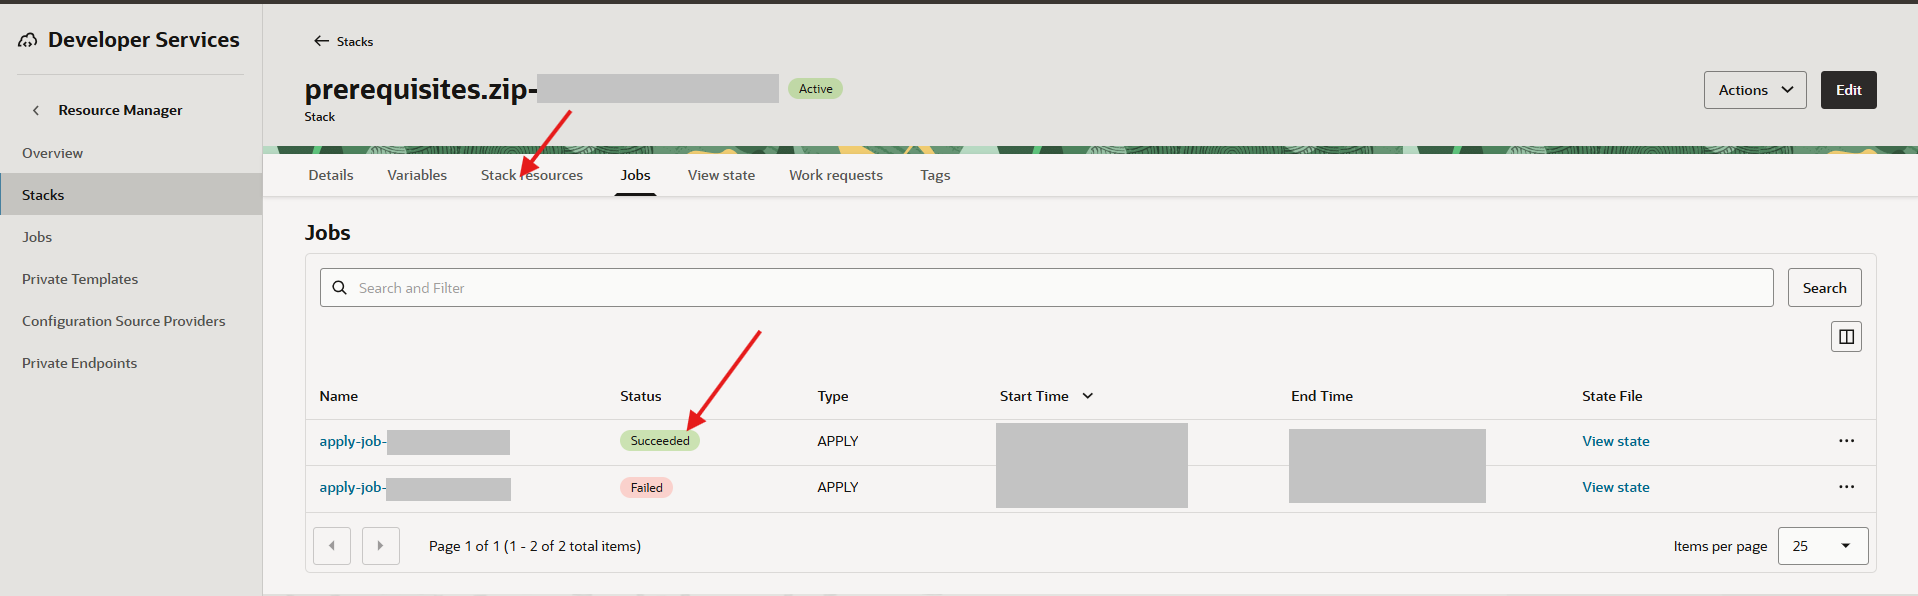
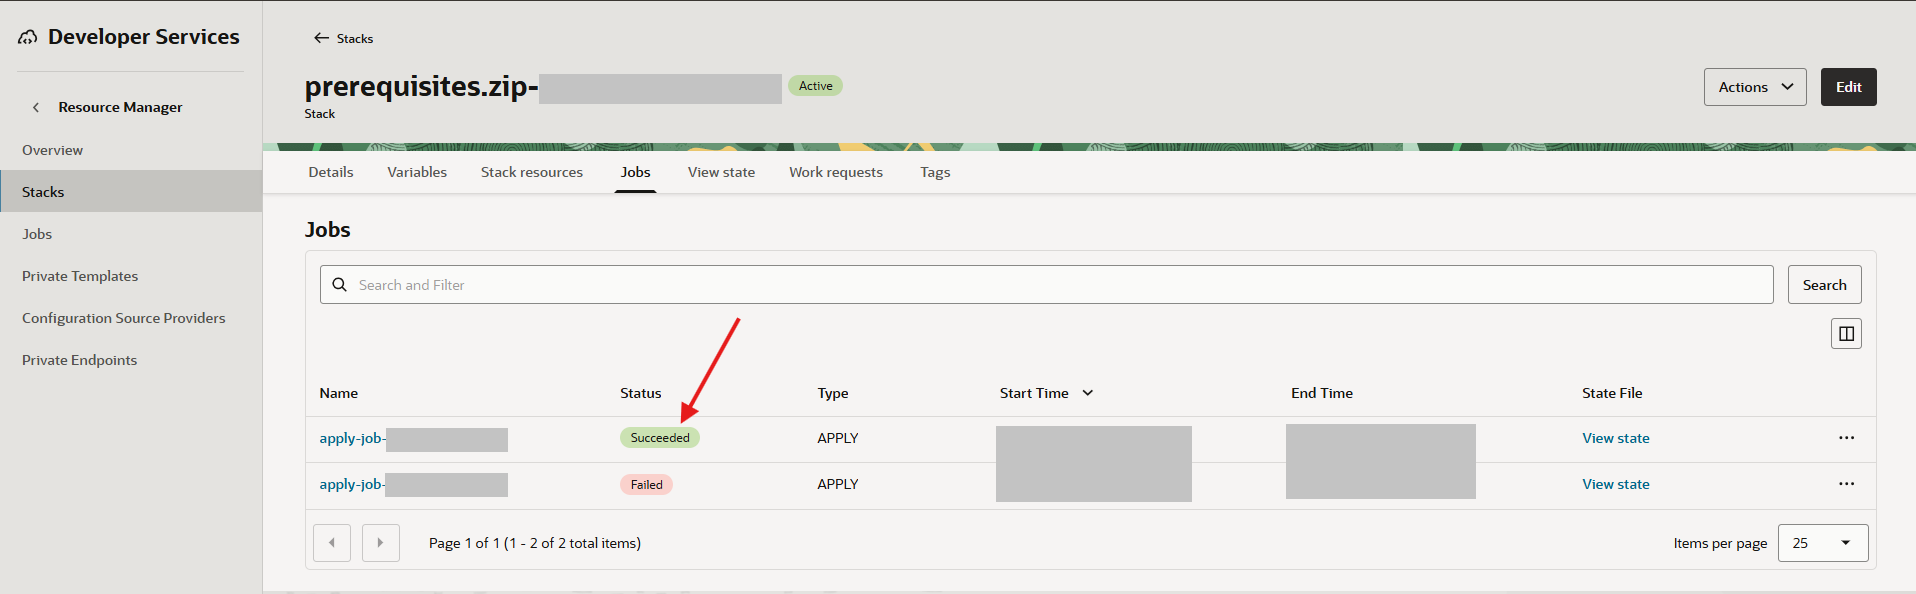
Updated

diff --git a/vmware-to-olvm-ocm/deploy-ocm-prerequisites/deploy-ocm-prerequisites.md b/vmware-to-olvm-ocm/deploy-ocm-prerequisites/deploy-ocm-prerequisites.md
@@ -13,7 +13,7 @@ In this lab, you will:
 * Open the OCM prerequisites wizard.
 * Configure and Review prerequisite stack options for VMware to OLVM migrations.
 * Apply the stack and handle the expected tag retry condition if it appears.
-* Verify created stack resources.
+* Verify created stack completed successfully.
 
 ## Task 1: Open the Prerequisites Wizard
 
@@ -78,19 +78,6 @@ In this lab, you will:
 6. Confirm that the apply job shows **Succeeded**.
     ![ Job Success](images/job-success.png " Show Job Success ")
 
-7. Open **Stack Resources**.
-
-8. Confirm that compartments, dynamic groups, user groups, policies, tag namespace, Vault, KMS key, and Object Storage bucket resources show **Available**, **Active**, or the expected terminal state.
-
-9. Record the resource names needed in later labs.
-
-    ```text
-    Replication bucket: ocm_replication
-    Vault: ocm-secrets
-    KMS key: ocm-key
-    Tag namespace:
-    ```
-
 ## Learn More
 
 * [Oracle Cloud Migrations documentation](https://docs.oracle.com/en-us/iaas/Content/cloud-migration/home.htm)
@@ -98,5 +85,6 @@ In this lab, you will:
 
 ## Acknowledgements
 
-* **Author** - Mark Atkinson, Evgeny Golenkov, Perside Foster
+* **Author** - Mark Atkinson, Evgeny Golenkov, Andrey Sokolov, Perside Foster
+* **Contributor** - Keya Balutkar
 * **Last Updated By/Date** - Perside Foster, June 2026

diff --git a/vmware-to-olvm-ocm/create-migration-compartment/create-migration-compartment.md b/vmware-to-olvm-ocm/create-migration-compartment/create-migration-compartment.md
@@ -55,5 +55,6 @@ In this lab, you will:
 
 ## Acknowledgements
 
-* **Author** - Mark Atkinson, Evgeny Golenkov, Perside Foster
+* **Author** - Mark Atkinson, Evgeny Golenkov, Andrey Sokolov, Perside Foster
+* **Contributor** - Keya Balutkar
 * **Last Updated By/Date** - Perside Foster, June 2026

diff --git a/vmware-to-olvm-ocm/create-olvm-migration-project/create-olvm-migration-project.md b/vmware-to-olvm-ocm/create-olvm-migration-project/create-olvm-migration-project.md
@@ -105,5 +105,6 @@ In this lab, you will:
 
 ## Acknowledgements
 
-* **Author** - Mark Atkinson, Evgeny Golenkov, Perside Foster
+* **Author** - Mark Atkinson, Evgeny Golenkov, Andrey Sokolov, Perside Foster
+* **Contributor** - Keya Balutkar
 * **Last Updated By/Date** - Perside Foster, June 2026

diff --git a/vmware-to-olvm-ocm/discover-vmware-assets/discover-vmware-assets.md b/vmware-to-olvm-ocm/discover-vmware-assets/discover-vmware-assets.md
@@ -71,5 +71,6 @@ In this lab, you will:
 
 ## Acknowledgements
 
-* **Author** - Mark Atkinson, Evgeny Golenkov, Perside Foster
+* **Author** - Mark Atkinson, Evgeny Golenkov, Andrey Sokolov, Perside Foster
+* **Contributor** - Keya Balutkar
 * **Last Updated By/Date** - Perside Foster, June 2026

diff --git a/vmware-to-olvm-ocm/introduction/introduction.md b/vmware-to-olvm-ocm/introduction/introduction.md
@@ -58,5 +58,6 @@ The remote agent appliance runs in the VMware environment and needs network acce
 
 ## Acknowledgements
 
-* **Author** - Mark Atkinson, Evgeny Golenkov, Perside Foster
+* **Author** - Mark Atkinson, Evgeny Golenkov, Andrey Sokolov, Perside Foster
+* **Contributor** - Keya Balutkar
 * **Last Updated By/Date** - Perside Foster, June 2026

diff --git a/vmware-to-olvm-ocm/mark-complete-cleanup/mark-complete-cleanup.md b/vmware-to-olvm-ocm/mark-complete-cleanup/mark-complete-cleanup.md
@@ -73,5 +73,6 @@ In this lab, you will:
 
 ## Acknowledgements
 
-* **Author** - Mark Atkinson, Evgeny Golenkov, Perside Foster
+* **Author** - Mark Atkinson, Evgeny Golenkov, Andrey Sokolov, Perside Foster
+* **Contributor** - Keya Balutkar
 * **Last Updated By/Date** - Perside Foster, June 2026

diff --git a/vmware-to-olvm-ocm/replicate-and-validate/replicate-and-validate.md b/vmware-to-olvm-ocm/replicate-and-validate/replicate-and-validate.md
@@ -102,5 +102,6 @@ In this lab, you will:
 
 ## Acknowledgements
 
-* **Author** - Mark Atkinson, Evgeny Golenkov, Perside Foster
+* **Author** - Mark Atkinson, Evgeny Golenkov, Andrey Sokolov, Perside Foster
+* **Contributor** - Keya Balutkar
 * **Last Updated By/Date** - Perside Foster, June 2026

diff --git a/vmware-to-olvm-ocm/setup-olvm-target/setup-olvm-target.md b/vmware-to-olvm-ocm/setup-olvm-target/setup-olvm-target.md
@@ -94,5 +94,6 @@ In this lab, you will:
 
 ## Acknowledgements
 
-* **Author** - Mark Atkinson, Evgeny Golenkov, Perside Foster
+* **Author** - Mark Atkinson, Evgeny Golenkov, Andrey Sokolov, Perside Foster
+* **Contributor** - Keya Balutkar
 * **Last Updated By/Date** - Perside Foster, June 2026

diff --git a/vmware-to-olvm-ocm/setup-vmware-source/setup-vmware-source.md b/vmware-to-olvm-ocm/setup-vmware-source/setup-vmware-source.md
@@ -171,5 +171,6 @@ In this lab, you will:
 
 ## Acknowledgements
 
-* **Author** - Mark Atkinson, Evgeny Golenkov, Perside Foster
+* **Author** - Mark Atkinson, Evgeny Golenkov, Andrey Sokolov, Perside Foster
+* **Contributor** - Keya Balutkar
 * **Last Updated By/Date** - Perside Foster, June 2026

diff --git a/vmware-to-olvm-ocm/upload-register-vddk/upload-register-vddk.md b/vmware-to-olvm-ocm/upload-register-vddk/upload-register-vddk.md
@@ -108,5 +108,6 @@ Do not use the latest VDDK version unless it matches one of the supported versio
 
 ## Acknowledgements
 
-* **Author** - Mark Atkinson, Evgeny Golenkov, Perside Foster
+* **Author** - Mark Atkinson, Evgeny Golenkov, Andrey Sokolov, Perside Foster
+* **Contributor** - Keya Balutkar
 * **Last Updated By/Date** - Perside Foster, June 2026